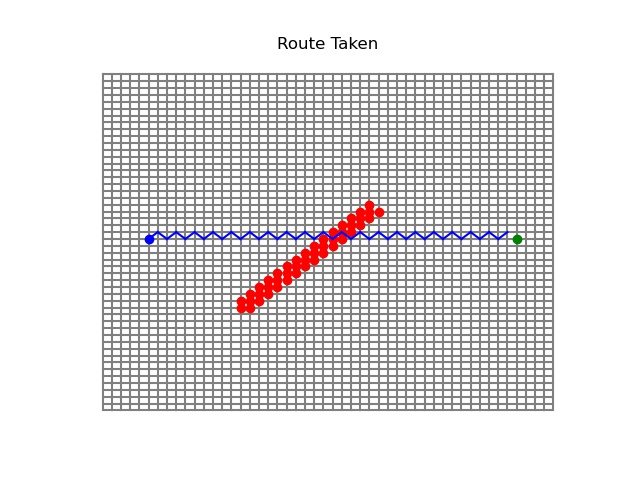
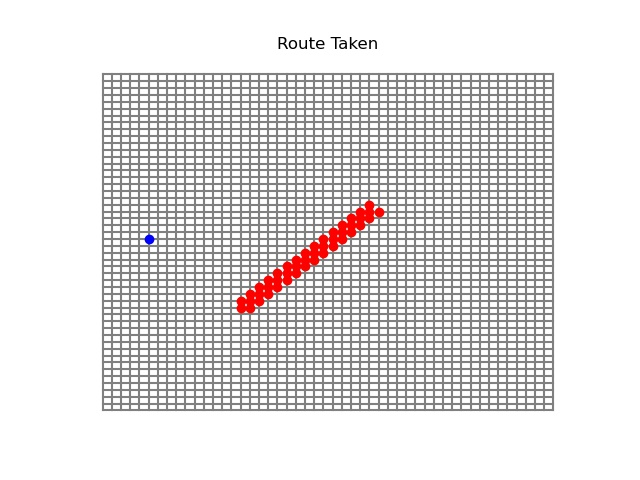
Policy class added, and hw3_2 distance function and annealing temperature.

Changed region(s): [[0.2188, 0.4688, 0.8125, 0.5312]]

diff --git a/Question2/policy.py b/Question2/policy.py
@@ -1,0 +1,159 @@
+
+import random as ran
+OUT_OF_BOUNDS = -1
+EMPTY = 0
+START = 1
+CURRENT = 2
+END = 3
+#MIN = 0
+#MAX = 10
+
+
+def valid(i, j, map_array):
+    """
+    Static class function, designed to determine if a new position is valid
+    Args:
+        i(int): x-coordinate
+        j(int): y-coordinate
+        map_array(numpy array 2D): Map of current field
+
+    Return:
+        True if valid position to move to
+    """
+    rows = map_array.shape[0]
+    cols = map_array.shape[1]
+    if i < 0 or i >= rows:
+        return False
+    if j < 0 or j >= cols:
+        return False
+    if map_array[i, j] == START or map_array[i, j] == OUT_OF_BOUNDS or map_array[i, j] == CURRENT:
+        return False
+    return True
+
+
+def update_pr(up1, outcome: bool):
+    """
+        Static class function, designed to update Adjusters on probabilities for actions
+        Args:
+            up1(int): Current adjuster to be updated
+            outcome(bool): Decision of good outcome a bad outcome from the last action
+
+        Return:
+            up1(int): updatedadjuster
+        """
+    if outcome:
+        up1 = up1 + 1
+    else:
+        up1 = up1 - 1
+    return up1
+
+
+class Policy:
+    """
+    Policy class A current state is entered into the class with the map,
+     then an action is made and updated map is returned. Probabilities of actions can vary over time.
+    """
+    def __init__(self):
+        self.p1 = 1
+        self.p2 = 90
+        self.p2r = 5
+        self.p3 = 101
+        self.p3r = 5
+        self.p4 = 190
+        self.p4r = 5
+        self.p5 = 201
+        self.p5r = 5
+        self.p6 = 290
+        self.p6r = 5
+        self.p7 = 301
+        self.p7r = 5
+        self.p8 = 390
+        self.p8r = 5
+        self.p9 = 590
+        self.p9r = 5
+        self.num = 0
+
+    def new_policy(self, i, j, map_array):
+        """
+        This function is meant to determine a new action to be taken
+        :param i: X-coordinate
+        :param j: Y-coordinate
+        :param map_array: Current map of the field
+        :return: Returns new x-coordinate, y-coordinate, and updated map
+        """
+        v = True
+        end = self.p9 + self.p9r + 1
+        while v:
+            new_i, new_j = i, j
+            rand = ran.randrange(1, end, 1)
+            if self.p1 < rand <= self.p2 + self.p2r:
+                self.num = 1
+                new_i = new_i + 1
+            elif self.p2 - self.p2r < rand <= self.p3 + self.p3r:
+                self.num = 2
+                new_i = new_i - 1
+            if self.p3 - self.p3r < rand <= self.p4 + self.p4r:
+                self.num = 3
+                new_j = new_j + 1
+            elif self.p4 - self.p4r < rand <= self.p5 + self.p5r:
+                self.num = 4
+                new_j = new_j - 1
+            if self.p5 - self.p5r < rand <= self.p6 + self.p6r:
+                self.num = 5
+                new_i = new_i + 1
+                new_j = new_j + 1
+            elif self.p6 - self.p6r < rand <= self.p7 + self.p7r:
+                self.num = 6
+                new_i = new_i + 1
+                new_j = new_j - 1
+            if self.p7 - self.p7r < rand <= self.p8 + self.p8r:
+                self.num = 7
+                new_i = new_i - 1
+                new_j = new_j + 1
+            elif self.p8 - self.p8r < rand <= self.p9 + self.p9r:
+                self.num = 8
+                new_i = new_i - 1
+                new_j = new_j - 1
+            if valid(new_i, new_j, map_array):
+                v = False
+                map_array[new_i, new_j] = CURRENT
+                map_array[i, j] = EMPTY
+                # print("rand", rand)
+                # print("i, j, old", i, j, map_array[i, j])
+                # print("i, j, new", new_i, new_j, map_array[new_i, new_j])
+        return new_i, new_j, map_array
+
+    def update_policy(self, outcome: bool):
+        """
+        This function determines what probability adjuster needs to be updated.
+        :param outcome: Was the last action provided good or bad i.e. true or false
+        """
+        if self.num == 1:# and MIN <= self.p2r <= MAX:
+            self.p2r = update_pr(up1=self.p2r, outcome=outcome)
+           # print(self.p2r)
+        elif self.num == 2:# and MIN <= self.p3r <= MAX:
+            self.p3r = update_pr(up1=self.p3r, outcome=outcome)
+            #print(self.p3r)
+        if self.num == 3:# and MIN <= self.p4r <= MAX:
+            self.p4r = update_pr(up1=self.p4r, outcome=outcome)
+            #print(self.p4r)
+        elif self.num == 4:# and MIN <= self.p5r <= MAX:
+            self.p5r = update_pr(up1=self.p5r, outcome=outcome)
+            #print(self.p5r)
+        if self.num == 5:# and MIN <= self.p6r <= MAX:
+            self.p6r = update_pr(up1=self.p6r, outcome=outcome)
+            #print(self.p6r)
+        elif self.num == 6:# and MIN <= self.p7r <= MAX:
+            self.p7r = update_pr(up1=self.p7r, outcome=outcome)
+            #print(self.p7r)
+        if self.num == 7:# and MIN <= self.p8r <= MAX:
+            self.p8r = update_pr(up1=self.p8r, outcome=outcome)
+            #print(self.p8r)
+        elif self.num == 8:# and MIN <= self.p9r <= MAX:
+            self.p9r = update_pr(up1=self.p9r, outcome=outcome)
+            #print(self.p9r)
+        self.num = 0
+
+            
+
+

diff --git a/Question2/hw3_2.py b/Question2/hw3_2.py
@@ -6,16 +6,22 @@
 import numpy as np
 import data_io as io
 import graph_wrapper as gw
+import policy as pie
+import math
+import random as ran
 
 MAP_X = 50
 MAP_Y = 50
 MAX_ITERATIONS = 10000
+TEMP = 3000
+COOLING = 0.999
 
 # Macros for map array
 OUT_OF_BOUNDS = -1
 EMPTY = 0
 START = 1
-END = 2
+CURRENT = 2
+END = 3
 
 
 def main():
@@ -54,15 +60,30 @@ def policyIterate(mapArray, start, end):
     # NOTE: this is just a temporary filler until policy class gets written
 
     route = [start]
+    p = pie.Policy()
+    map_array = np.array(mapArray)
+    #Initialize beginning x and Y coordinates
+    i, j, k = 5, 25, 0
+    t = TEMP
+    while i != 45 or j != 25:
+        new_i, new_j, map_array = p.new_policy(i=i, j=j, map_array=map_array)
+        old_dist = dist(current_i=i, current_j=j, end_i=45, end_j=25)
+        new_dist = dist(current_i=new_i, current_j=new_j, end_i=45, end_j=25)
+        outcome, i, j = accept_solution(old_dist, new_dist, t, i, j, new_i, new_j)
+        t *= COOLING
+        p.update_policy(outcome=outcome)
+        k += 1
+    print(k)
+
     # init policy
     iteration = 0
-    while (not exitCondition([5 + iteration + 1, 25 + (iteration % 2)], end)) and iteration < MAX_ITERATIONS:
-        # copy policy into previous policy
-        # compute V
-        # choose new policy
-
-        iteration += 1
-        route.append([5 + iteration, 25 + (iteration % 2)])  # change later
+    # while (not exitCondition([5 + iteration + 1, 25 + (iteration % 2)], end)) and iteration < MAX_ITERATIONS:
+    #     # copy policy into previous policy
+    #     # compute V
+    #     # choose new policy
+    # 
+    #     iteration += 1
+    #     route.append([5 + iteration, 25 + (iteration % 2)])  # change later
     return route
 
 
@@ -81,8 +102,44 @@ def simpleInit():
     for i in range(15, 30):
         mapArray[i][i] = OUT_OF_BOUNDS
         mapArray[i][i + 1] = OUT_OF_BOUNDS
-        mapArray[i+1][i] = OUT_OF_BOUNDS
+        mapArray[i + 1][i] = OUT_OF_BOUNDS
     return mapArray, [5, 25], [45, 25]
+
+
+def dist(current_i, current_j, end_i, end_j):
+    """
+    Calculates distance of IJ values entered i from the endpoint
+    :param current_i: X-coordinate
+    :param current_j: Y-coordinate
+    :param end_i: Ending point for the x-coordinate
+    :param end_j: Ending point for the y-coordinate
+    :return: Returns calculated distance
+    """
+    i = math.pow((end_i - current_i), 2)
+    j = math.pow((end_j - current_j), 2)
+    return math.sqrt((i + j))
+
+def accept_solution(energy1, energy2, temperature, oi, oj, ni, nj):
+    """
+    Simulating annealing function
+    :param energy1: The old distance
+    :param energy2: The new distance
+    :param temperature: Current temperature
+    :param oi: Old X
+    :param oj: Old y
+    :param ni: New x
+    :param nj: new y
+    :return: Returns rather the action is good or bad and what appropriate X and Y values need to be returned
+    """
+    if energy1 > energy2:
+        return True, ni, nj
+    else:
+        a = math.exp((energy1 - energy2) / temperature)
+        b = ran.random()
+        if a > b:
+            return True, ni, nj
+        else:
+            return False, oi, oj
 
 
 if __name__ == "__main__":
